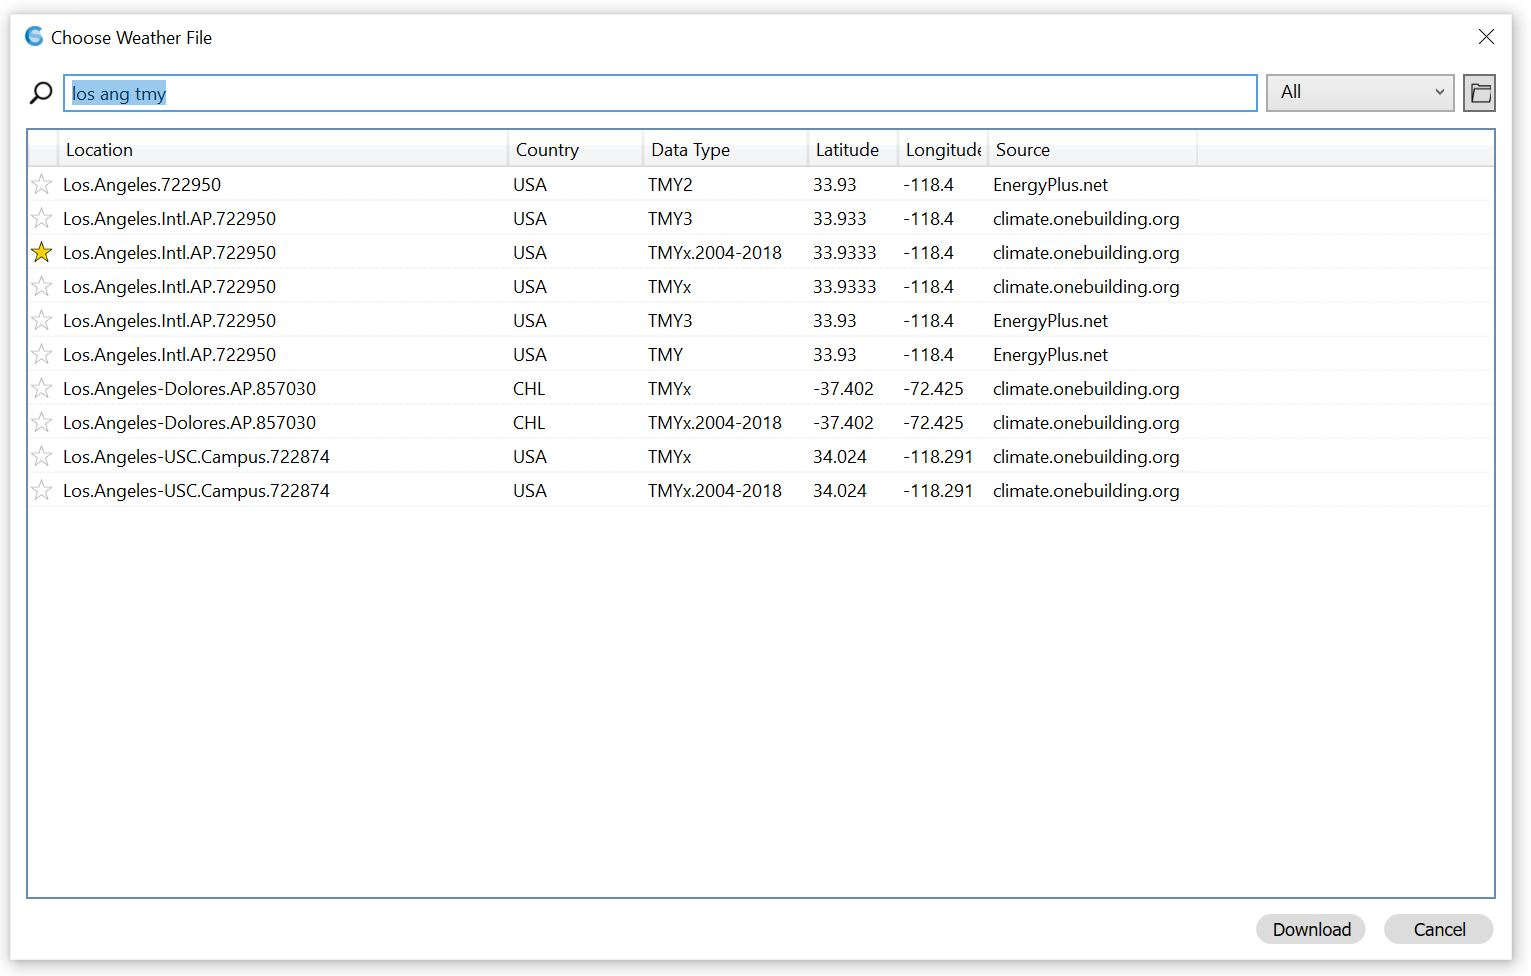
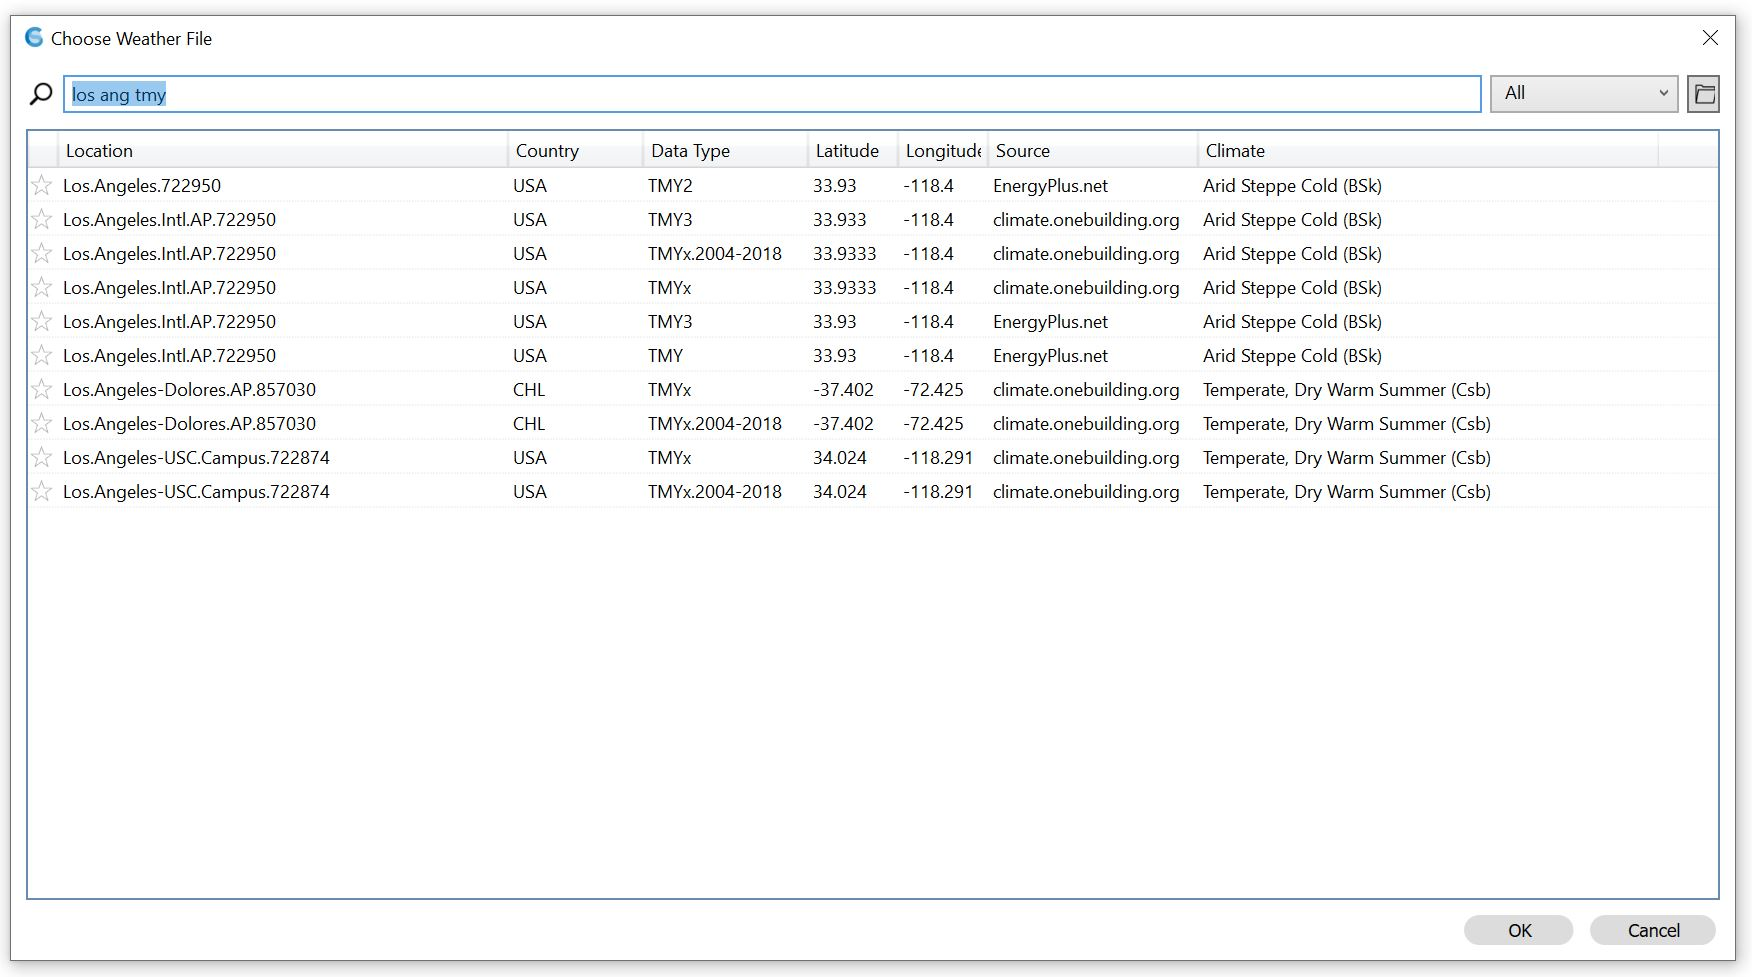
climate summary documentation

diff --git a/docs/Location.rst b/docs/Location.rst
@@ -20,6 +20,17 @@ The default site is the TMY3 file for Boston, Logan International Airport.
 To select another file, left-click on the file selector icon next to the name of the current TMY file. A `search dialog`_ should pop up. 
 
 
+Climate Summary
+----------------------------------------------------
+A summary of the climate selected is displayed on this page. Note that the accuracy of this summary entirely depends on the climate file selected. 
+
+- **Climate Zone** is based on the **koppen climate classification**. 
+- **Coldest/Hottest Month** are calculated through the average dry bulb tempearture of each month. 
+- **Coldest/Hottest/Typical Week** are taken from the headers of the climate file. 
+- **Annual HDH/CDH** are **Heating Degree Hour** and **Cooling Degree Hour** which are calculated as the sum of the negative or positive difference between the target tempearture and the dry bulb temperature. 
+
+Click on the Menu button to **Copy Climate Summary Text to ClipBoard** or switch between **Unit Systems**
+
 Climate File Formats
 ----------------------------------------------------
 ClimateStudio uses the widely used `EnergyPlus weather file format`_ (file extension EPW). EPW files are available for thousands of sites worldwide and can be downloaded from the following websites. 

diff --git a/docs/doubleSliderFilters.rst b/docs/doubleSliderFilters.rst
@@ -29,9 +29,10 @@ the **Wind Speed** filter's last number represents positive infinity.
 In this example, we are filtering for data during **summer nights**. 
 
 
-All four filters are applied to `Wind Rose`_, while only the **Days** and **Hours** filters are applied to `Psychrometric Chart`_. 
+All four filters are applied to `Wind Rose`_, while only the **Days** and **Hours** filters are applied to `Psychrometric Chart`_ and `Hourly Heatmap`_. 
 Moving the slider for **Days** and **Hours** filters will update the data displayed for both **Wind Rose** and **Psychrometric Chart**. 
 
 
 .. _Wind Rose: windRose.html
 .. _Psychrometric Chart: psychrometricChart.html
+.. _Hourly Heatmap: hourlyHeatmap.html

diff --git a/docs/SunPath.rst b/docs/SunPath.rst
@@ -7,9 +7,12 @@ Sun Path
 
 The sun path subpanel controls how the current sun position and the 3D sun path diagram are displayed in the Rhino viewport. 
 
+
 .. figure:: images/SunPath.jpg
    :width: 900px
    :align: center
+
+The projection from 3D to 2D can be changed from **Angular** to **Hemispheric** or **Stereographic** through the drop down menu. 
 
 3D Sun Path
 ----------------------------------------------------

diff --git a/docs/hourlyHeatmap.rst b/docs/hourlyHeatmap.rst
@@ -27,3 +27,12 @@ Changing the min/max number above the legend will update the graph's colors.
 .. figure:: images/hourly_heatmap_dorpdown.jpg
    :width: 900px
    :align: center
+
+
+2 `filters`_ may be applied to the Hourly Heatmap: 
+
+- **Days** of the year as a range (wraps around)
+- **Hours** of the day as a range (wraps around)
+
+
+.. _filters: doubleSliderFilters.html
